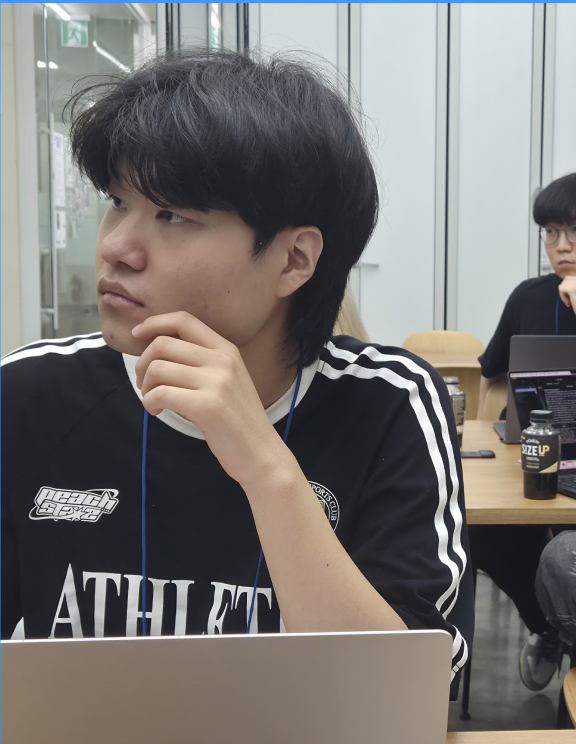
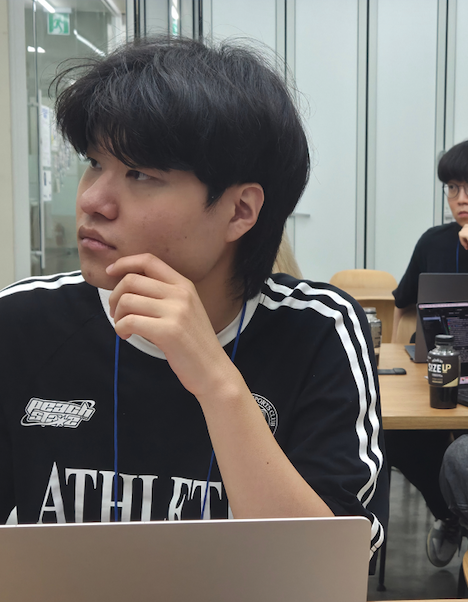
style: apply 페이지 리디자인, blog 모바일 반응형 개선, dashboard 사이드바 개선, 장지민 사진 교체

diff --git a/app/apply/page.tsx b/app/apply/page.tsx
@@ -1,6 +1,5 @@
 import type { Metadata } from "next";
 import Link from "next/link";
-import PageHeader from "@/components/PageHeader";
 
 export const metadata: Metadata = {
   title: "지원하기 | SPEC — 성균관대 창업학회",
@@ -9,99 +8,150 @@ export const metadata: Metadata = {
 
 export default function ApplyPage() {
   return (
-    <div className="mx-auto max-w-[1100px] px-4 pb-24 pt-14 md:pt-20">
-      <PageHeader title="Apply Now" align="center" />
+    <div className="bg-[#fcfcf8] min-h-screen">
+      {/* ── Hero ──────────────────────────────────── */}
+      <section className="mx-auto max-w-[760px] px-6 pt-20 pb-16 md:pt-32 md:pb-24">
+        <h1 className="text-[clamp(2.75rem,6vw,4.25rem)] font-black leading-[1.08] tracking-tight text-[#16140f] font-[family-name:'Source_Serif_4',serif]">
+          Apply to SPEC
+        </h1>
 
-      <article className="mx-auto max-w-[800px]">
-        <div className="mb-14 rounded-[10px] border border-[#ddd9cc] bg-white p-10 md:p-14 shadow-sm">
-          <h1 className="mb-8 text-4xl font-black text-[#16140f] [font-family:system-ui,-apple-system,sans-serif] leading-tight">
-            실전창업동아리 SPEC 4기 <br /> 러너 리쿠르팅
-          </h1>
-          
-          <div className="prose prose-lg max-w-none text-[#4a4a40] space-y-10 font-['Pretendard',sans-serif]">
-            <p className="text-xl leading-relaxed">
-              안녕하세요, 성균관대학교 실전창업동아리 SPEC입니다!<br/><br/>
-              🚀 창업 아이디어는 있지만, 함께할 팀원을 찾기 어려우셨나요?<br/>
-              📖 밑바닥부터 실전 창업을 경험하고 싶다면?
-            </p>
-
-            <div className="bg-[#fcfcf8] p-8 rounded-lg border border-[#f0efe6]">
-              <p className="leading-relaxed">
-                SPEC은 다양한 멘토분들의 강연을 통해 창업에 대한 지식을 쌓고, 여러 학과의 사람들이 모여 함께 창업에 도전하는 동아리입니다.<br/><br/>
-                SPEC은 러너(Learner)와 프러너(Preneur) 두 가지 트랙으로 운영되며, 이 지원서는 러너(Learner) 모집을 위한 지원서입니다.
-              </p>
-            </div>
-
-            <div className="space-y-6">
-              <h2 className="text-2xl font-bold text-[#16140f]">📢 러너(Learner)란?</h2>
-              <ul className="list-disc pl-6 space-y-3 text-lg">
-                <li>창업에 대한 교육 및 팀 프로젝트를 중심으로 활동하는 트랙입니다.</li>
-                <li>매주 정기 세션에 참여해야 합니다.</li>
-                <li>팀 프로젝트를 통해 포트폴리오를 쌓고, 실전 창업 역량을 기를 수 있습니다.</li>
-              </ul>
-            </div>
-
-            <div className="grid grid-cols-1 md:grid-cols-2 gap-10">
-              <div className="space-y-6">
-                <h3 className="text-xl font-bold text-[#16140f] flex items-center gap-2">
-                   <span className="h-2.5 w-2.5 rounded-full bg-[#FF6C0F]"></span> 지원 정보
-                </h3>
-                <ul className="space-y-3 text-[17px]">
-                  <li>• <strong>지원 자격:</strong> 창업에 관심 있는 누구나</li>
-                  <li>• <strong>활동 기간:</strong> 2025.09.22. ~ 2026.03.03.</li>
-                  <li>• <strong>회비:</strong> 35,000원</li>
-                </ul>
-              </div>
-              <div className="space-y-6">
-                <h3 className="text-xl font-bold text-[#16140f] flex items-center gap-2">
-                  <span className="h-2.5 w-2.5 rounded-full bg-[#FF6C0F]"></span> 활동 정보
-                </h3>
-                <ul className="space-y-3 text-[17px]">
-                  <li>• <strong>정기 세션:</strong> 매주 월요일 저녁 7시</li>
-                  <li>• <strong>활동 장소:</strong> 자연과학캠퍼스</li>
-                  <li>• <strong>주요 행사:</strong> 아이디어톤, 해커톤, 데모데이 등</li>
-                </ul>
-              </div>
-            </div>
-
-            <div className="space-y-6 bg-[#16140f] text-white p-10 rounded-lg shadow-xl">
-              <h2 className="text-2xl font-bold border-b border-white/20 pb-4">📢 러너 모집 일정</h2>
-              <div className="grid grid-cols-2 gap-x-6 gap-y-4 text-lg">
-                <span className="font-semibold text-white/70">1차 서류 추가 모집</span>
-                <span className="font-medium">~ 9월 14일 23:59</span>
-                <span className="font-semibold text-white/70">결과 발표</span>
-                <span className="font-medium">9월 15일(월) 저녁</span>
-                <span className="font-semibold text-white/70">2차 온라인 면접</span>
-                <span className="font-medium">9월 16일 ~ 17일</span>
-                <span className="font-semibold text-white/70">최종 발표</span>
-                <span className="font-medium">9월 19일(금)</span>
-                <span className="font-semibold text-[#FF6C0F]">OT (필참)</span>
-                <span className="font-bold text-[#FF6C0F]">9월 22일(월) 18:00</span>
-              </div>
-            </div>
-
-            <div className="pt-6 border-t border-[#f0efe6]">
-              <p className="text-sm text-[#9a9a8c] leading-relaxed">
-                📌 보다 자세한 정보는 SPEC 인스타그램(@skku_spec)에서 확인할 수 있습니다.<br/>
-                * 본 동아리는 성균관대학교 캠퍼스타운사업단과 함께합니다.
-              </p>
-              <div className="mt-4 flex flex-wrap gap-4 text-sm text-[#6b6b5e]">
-                <span><strong>문의처:</strong> 러너 회장 전도현 010-9445-0964</span>
-              </div>
-            </div>
-          </div>
+        <div className="mt-8 space-y-5 text-[17px] leading-[1.75] text-[#4a4a40] font-['Pretendard',sans-serif]">
+          <p>
+            SPEC은 성균관대학교 실전창업동아리입니다. 다양한 멘토분들의 강연을
+            통해 창업에 대한 지식을 쌓고, 여러 학과의 사람들이 모여 함께 창업에
+            도전합니다.
+          </p>
+          <p>
+            현재 <strong className="font-semibold text-[#16140f]">SPEC 4기 러너(Learner)</strong>를
+            모집하고 있습니다. 러너 트랙은 창업에 대한 교육 및 팀 프로젝트를
+            중심으로 활동하며, 매주 정기 세션에 참여하게 됩니다.
+          </p>
+          <p>
+            팀 프로젝트를 통해 포트폴리오를 쌓고, 실전 창업 역량을 기를 수
+            있습니다. 창업에 관심 있는 누구나 지원할 수 있습니다.
+          </p>
         </div>
 
-        <div className="flex justify-center">
+        <div className="mt-10">
           <Link
             href="/apply/form"
-            className="group relative inline-flex h-20 w-fit items-center justify-center rounded-full bg-[#FF6C0F] px-16 font-['MaruBuri',serif] text-3xl italic tracking-wider text-white transition-all hover:scale-105 active:scale-95 shadow-2xl"
+            className="inline-flex items-center justify-center rounded-full bg-[#FF6C0F] px-10 py-4 text-lg font-semibold text-white transition-all hover:brightness-110 active:scale-[0.98] font-['Pretendard',sans-serif]"
           >
-            Apply Now →
+            Apply
           </Link>
         </div>
-      </article>
+      </section>
 
+      {/* ── About Applying ───────────────────────── */}
+      <section className="mx-auto max-w-[760px] px-6 py-16 md:py-24">
+        <h2 className="text-[clamp(1.75rem,3.5vw,2.5rem)] font-extrabold leading-[1.15] tracking-tight text-[#16140f] font-[family-name:'Source_Serif_4',serif]">
+          지원 안내
+        </h2>
+
+        <div className="mt-8 space-y-5 text-[17px] leading-[1.75] text-[#4a4a40] font-['Pretendard',sans-serif]">
+          <p>
+            지원서는 온라인으로 제출하며, 제출 후에는 수정이 불가합니다.
+            지원서에서는 본인의 창업에 대한 관심과 SPEC에서 하고 싶은 활동을
+            자유롭게 작성해 주세요.
+          </p>
+          <p>
+            서류 심사 후 합격자에 한해 온라인 면접이 진행됩니다. 면접은 약
+            10~15분 내외이며, 지원서를 바탕으로 간단한 대화를 나눕니다.
+          </p>
+          <p>
+            최종 합격 발표 후 OT에 필참해야 하며, OT에서 활동에 대한 안내와
+            팀 배정이 이루어집니다.
+          </p>
+        </div>
+
+        <div className="mt-12 rounded-lg border border-[#e8e6dd] bg-white p-8 md:p-10">
+          <h3 className="text-lg font-bold text-[#16140f] font-['Pretendard',sans-serif]">
+            모집 일정
+          </h3>
+          <dl className="mt-5 space-y-4 text-[16px] font-['Pretendard',sans-serif]">
+            <div className="flex flex-col gap-0.5 sm:flex-row sm:gap-4">
+              <dt className="w-44 shrink-0 font-medium text-[#6b6b5e]">
+                1차 서류 추가 모집
+              </dt>
+              <dd className="text-[#16140f]">~ 9월 14일 (일) 23:59</dd>
+            </div>
+            <div className="flex flex-col gap-0.5 sm:flex-row sm:gap-4">
+              <dt className="w-44 shrink-0 font-medium text-[#6b6b5e]">
+                결과 발표
+              </dt>
+              <dd className="text-[#16140f]">9월 15일 (월) 저녁</dd>
+            </div>
+            <div className="flex flex-col gap-0.5 sm:flex-row sm:gap-4">
+              <dt className="w-44 shrink-0 font-medium text-[#6b6b5e]">
+                2차 온라인 면접
+              </dt>
+              <dd className="text-[#16140f]">9월 16일 ~ 17일</dd>
+            </div>
+            <div className="flex flex-col gap-0.5 sm:flex-row sm:gap-4">
+              <dt className="w-44 shrink-0 font-medium text-[#6b6b5e]">
+                최종 발표
+              </dt>
+              <dd className="text-[#16140f]">9월 19일 (금)</dd>
+            </div>
+            <div className="flex flex-col gap-0.5 sm:flex-row sm:gap-4">
+              <dt className="w-44 shrink-0 font-semibold text-[#FF6C0F]">
+                OT (필참)
+              </dt>
+              <dd className="font-semibold text-[#FF6C0F]">
+                9월 22일 (월) 18:00
+              </dd>
+            </div>
+          </dl>
+        </div>
+      </section>
+
+      {/* ── About the Batch ──────────────────────── */}
+      <section className="mx-auto max-w-[760px] px-6 py-16 md:py-24">
+        <h2 className="text-[clamp(1.75rem,3.5vw,2.5rem)] font-extrabold leading-[1.15] tracking-tight text-[#16140f] font-[family-name:'Source_Serif_4',serif]">
+          활동 소개
+        </h2>
+
+        <div className="mt-8 space-y-5 text-[17px] leading-[1.75] text-[#4a4a40] font-['Pretendard',sans-serif]">
+          <p>
+            SPEC 4기는 <strong className="font-semibold text-[#16140f]">2025년 9월 22일부터 2026년 3월 3일까지</strong>{" "}
+            활동합니다. 정기 세션은 매주 월요일 저녁 7시에 자연과학캠퍼스에서
+            진행됩니다.
+          </p>
+          <p>
+            한 학기 동안 창업 전문가 초청 강연, 아이디어톤, 해커톤, 데모데이 등
+            다양한 프로그램에 참여하게 됩니다. 팀 프로젝트를 통해 아이디어를
+            실제 서비스로 구현하는 경험을 쌓을 수 있습니다.
+          </p>
+          <p>
+            SPEC 졸업 후에도 Alumni 네트워크를 통해 창업 생태계와 연결됩니다.
+            이전 기수 출신 멤버들이 다양한 분야에서 활발히 활동하고 있습니다.
+          </p>
+          <p>
+            회비는 35,000원이며, 활동에 필요한 모든 프로그램과 자료가
+            제공됩니다.
+          </p>
+        </div>
+      </section>
+
+      {/* ── Footer Note ──────────────────────────── */}
+      <div className="mx-auto max-w-[760px] px-6 pb-24">
+        <p className="mt-8 text-[15px] leading-[1.7] text-[#9a9a8c] font-['Pretendard',sans-serif]">
+          궁금한 점이 있으면 러너 회장 전도현(010-9445-0964)에게
+          문의해 주세요. 보다 자세한 정보는 SPEC 인스타그램(
+          <a
+            href="https://instagram.com/skku_spec"
+            target="_blank"
+            rel="noopener noreferrer"
+            className="underline underline-offset-2 hover:text-[#6b6b5e] transition-colors"
+          >
+            @skku_spec
+          </a>
+          )에서 확인할 수 있습니다.
+        </p>
+        <p className="mt-3 text-[14px] text-[#b0b0a2] font-['Pretendard',sans-serif]">
+          본 동아리는 성균관대학교 캠퍼스타운사업단과 함께합니다.
+        </p>
+      </div>
     </div>
   );
 }

diff --git a/app/blog/BlogPageClient.tsx b/app/blog/BlogPageClient.tsx
@@ -78,8 +78,8 @@ export default function BlogPageClient({ posts, tags }: BlogPageClientProps) {
   );
 
   return (
-    <section className="min-h-screen pb-24">
-      <div className="border-b border-[#ddd9cc]">
+    <section className="min-h-screen bg-[#f5f5ee] pb-24">
+      <div>
         <div className="mx-auto max-w-[1068px] px-6 pt-14 pb-8 text-center">
           <h1
             className="text-[clamp(2.5rem,5vw,3.75rem)] font-black leading-[1.15] tracking-tight uppercase text-[#16140f]"
@@ -90,14 +90,14 @@ export default function BlogPageClient({ posts, tags }: BlogPageClientProps) {
         </div>
       </div>
 
-      <div className="border-b border-[#ddd9cc]">
-        <div className="mx-auto flex max-w-[1068px] items-center justify-between px-6 py-5">
-          <div className="flex gap-8">
+      <div>
+        <div className="mx-auto flex max-w-[1068px] flex-col gap-4 px-6 py-5 md:flex-row md:items-center md:justify-between">
+          <div className="flex gap-4 md:gap-8">
             {tabs.map((tab) => (
               <button
                 key={tab.id}
                 onClick={() => setActiveTab(tab.id)}
-                className={`font-['Pretendard',sans-serif] text-[14px] font-[500] padding-[8px_4px] border-b-[2px] transition-colors ${
+                className={`whitespace-nowrap font-['Pretendard',sans-serif] text-[14px] font-[500] border-b-[2px] transition-colors ${
                   activeTab === tab.id
                     ? "border-b-[oklch(0.705_0.213_47.604)] text-[#16140f]"
                     : "border-b-transparent text-[#8a8a7e]"
@@ -108,16 +108,16 @@ export default function BlogPageClient({ posts, tags }: BlogPageClientProps) {
             ))}
           </div>
 
-          <div className="flex items-center gap-3">
+          <div className="flex w-full items-center gap-3 md:w-auto">
             <input
               type="text"
               placeholder="검색..."
-              className="font-['Pretendard',sans-serif] w-[320px] h-[38px] rounded-[6px] border-[1px] border-[#ddd9cc] px-3 text-[14px] focus:outline-none focus:ring-2 focus:ring-[oklch(0.705_0.213_47.604)]"
+              className="font-['Pretendard',sans-serif] h-[38px] w-full min-w-0 flex-1 rounded-[6px] border-[1px] border-[#ddd9cc] px-3 text-[14px] focus:outline-none focus:ring-2 focus:ring-[oklch(0.705_0.213_47.604)] md:w-[320px] md:flex-none"
             />
             {canWrite && (
               <Link
                 href="/blog/write"
-                className="inline-flex h-[38px] items-center rounded-[6px] bg-[#FF6C0F] px-4 font-['Pretendard',sans-serif] text-[14px] font-medium text-white transition-opacity hover:opacity-85"
+                className="inline-flex h-[38px] shrink-0 items-center rounded-[6px] bg-[#FF6C0F] px-4 font-['Pretendard',sans-serif] text-[14px] font-medium text-white transition-opacity hover:opacity-85"
               >
                 글쓰기
               </Link>
@@ -127,7 +127,7 @@ export default function BlogPageClient({ posts, tags }: BlogPageClientProps) {
       </div>
 
       {featuredPost && (
-        <div className="border-b border-[#ddd9cc]">
+        <div>
           <div className="mx-auto max-w-[1200px] px-6 py-12">
             <div className="flex flex-col gap-8 md:flex-row md:items-start md:gap-12">
               <div className="max-w-[518px] shrink-0">
@@ -177,7 +177,7 @@ export default function BlogPageClient({ posts, tags }: BlogPageClientProps) {
         </div>
       )}
 
-      <div id="recent-posts" className="border-b border-[#ddd9cc]">
+      <div id="recent-posts">
         <div className="mx-auto max-w-[1200px] px-6 py-12">
           <h3 className="mb-8 font-['Pretendard',sans-serif] text-[20px] font-semibold text-[oklch(0.705_0.213_47.604)]">
             최근 소식
@@ -238,7 +238,7 @@ export default function BlogPageClient({ posts, tags }: BlogPageClientProps) {
             <h3 className="mb-6 font-['Pretendard',sans-serif] text-[20px] font-semibold text-[oklch(0.705_0.213_47.604)]">
               전체 글
             </h3>
-            <div className="space-y-0 divide-y divide-[#ddd9cc]">
+            <div className="space-y-0">
               {allPosts.map((post) => (
                 <article key={post.slug} className="py-7 first:pt-0">
                   <div className="mb-2 flex flex-wrap items-center gap-x-3 gap-y-1">

diff --git a/app/dashboard/layout.tsx b/app/dashboard/layout.tsx
@@ -13,21 +13,23 @@ export default async function DashboardLayout({ children }: DashboardLayoutProps
   return (
     <div className="min-h-screen bg-[#f5f5ee] text-[#16140f] [font-family:Pretendard,system-ui,sans-serif]">
       <div className="mx-auto flex min-h-screen max-w-[1400px]">
-        <aside className="w-[240px] shrink-0 border-r border-[#ddd9cc] bg-white p-5">
-           <div className="mb-8 px-2">
-            <p className="text-xs uppercase tracking-[0.18em] text-[#6b6b5e]">SPEC</p>
-            <h1 className="mt-1 text-xl font-semibold text-[#16140f] [font-family:system-ui,-apple-system,sans-serif]">Dashboard</h1>
+        <aside className="w-[240px] shrink-0 self-start py-10 pl-8 sm:pl-10">
+          <div className="sticky top-[100px] overflow-y-auto rounded-lg border border-[#c6c6c6] bg-[#fdfdf8] p-5" style={{ maxHeight: 'calc(100vh - 120px)' }}>
+            <div className="mb-6 px-1">
+              <p className="text-xs uppercase tracking-[0.18em] text-[#6b6b5e]">SPEC</p>
+              <h1 className="mt-1 text-xl font-semibold text-[#16140f] [font-family:system-ui,-apple-system,sans-serif]">Dashboard</h1>
+            </div>
+            <nav className="flex flex-col gap-1">
+              <Link
+                href="/dashboard/applications"
+                className="flex items-center gap-3 rounded-lg px-3 py-2.5 text-sm text-[#FF6C0F] bg-[#FFF0E5] font-semibold transition-colors"
+              >
+                <span>📋</span>
+                <span>모집 지원서</span>
+              </Link>
+              {/* 향후 다른 대시보드 메뉴가 추가될 수 있습니다 */}
+            </nav>
           </div>
-          <nav className="flex flex-1 flex-col gap-1">
-            <Link 
-              href="/dashboard/applications" 
-              className="flex items-center gap-3 rounded-lg px-3 py-2.5 text-sm text-[#FF6C0F] bg-[#FFF0E5] font-semibold transition-colors"
-            >
-              <span>📋</span>
-              <span>모집 지원서</span>
-            </Link>
-            {/* 향후 다른 대시보드 메뉴가 추가될 수 있습니다 */}
-          </nav>
         </aside>
         <main className="flex-1 px-8 py-10 sm:px-10">{children}</main>
       </div>
